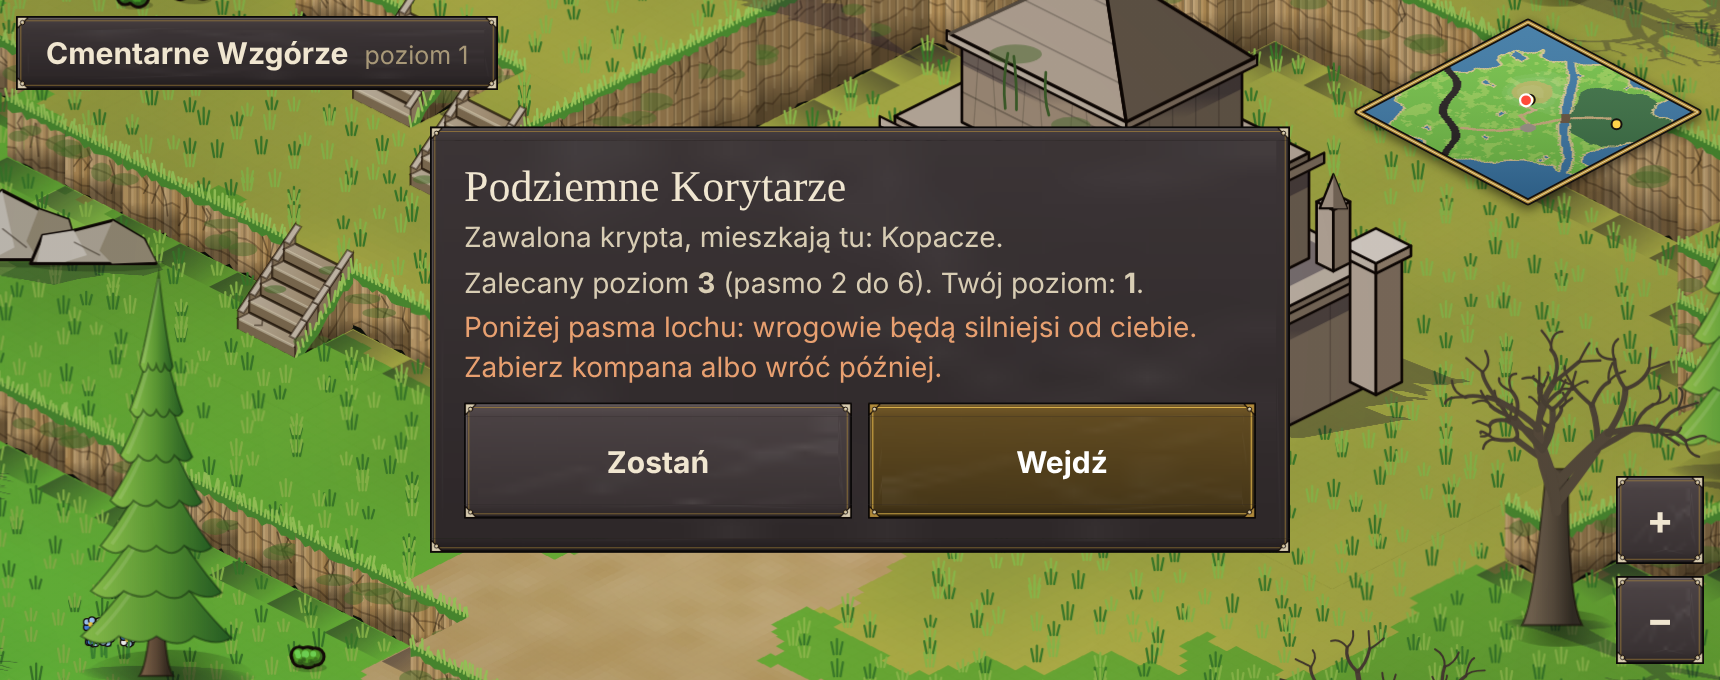
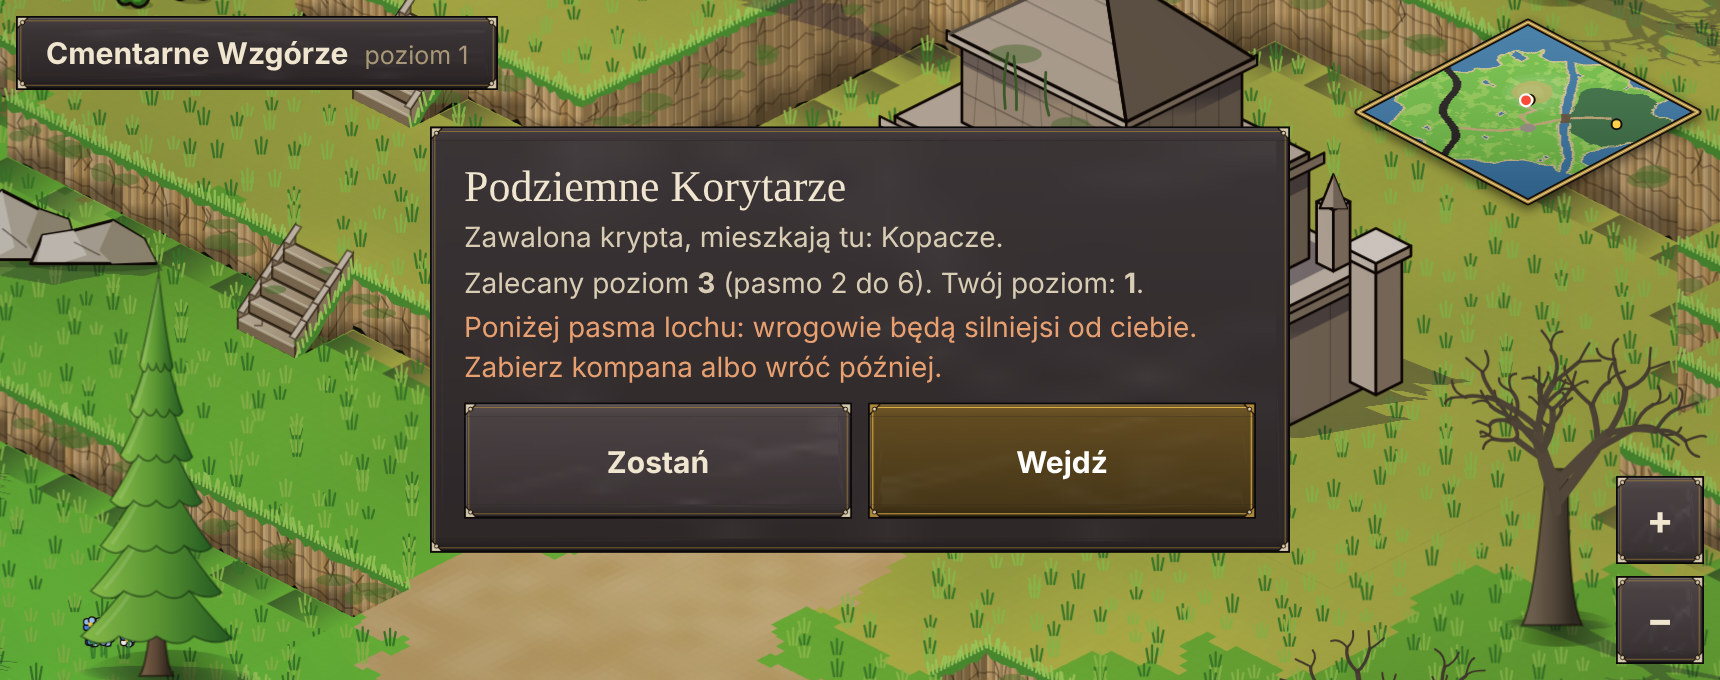
Teren: wygładzone krawędzie tarasów, ścieżka na wzgórze jako półka, nic nie stoi przy schodach
Claude-Session: https://claude.ai/code/session_01YGgK3XekFYaLDhBRBtmmRq

diff --git a/src/world/kraina.js b/src/world/kraina.js
@@ -62,7 +62,11 @@ export function generateWorld(seed = 1) {
     cellRegion[idx(x, y)] = regionOf(px, py);
   }
   // wygładzenie: pojedyncze kafle odstające od sąsiadów wracają do ich poziomu (bez szumu na tarasach)
-  for (let pass = 0; pass < 2; pass++) { const copy = lvl.slice(); for (let y = 1; y < N - 1; y++) for (let x = 1; x < N - 1; x++) { const c = copy[idx(x, y)], ns = [copy[idx(x + 1, y)], copy[idx(x - 1, y)], copy[idx(x, y + 1)], copy[idx(x, y - 1)]]; const same = ns.filter((v) => v === c).length; if (same === 0) { const m = ns.sort((a, b) => a - b); lvl[idx(x, y)] = m[1]; } } }
+  // oraz wąskie wcięcia i wypustki (kafel, którego dwaj przeciwległi sąsiedzi mają ten sam, inny poziom, albo 5 z 8 sąsiadów), żeby krawędzie tarasów były czytelne
+  for (let pass = 0; pass < 4; pass++) { const copy = lvl.slice(); for (let y = 1; y < N - 1; y++) for (let x = 1; x < N - 1; x++) { const c = copy[idx(x, y)], g = (i, j) => copy[idx(x + i, y + j)]; let to = c;
+    if (g(1, 0) === g(-1, 0) && g(1, 0) !== c) to = g(1, 0); else if (g(0, 1) === g(0, -1) && g(0, 1) !== c) to = g(0, 1);
+    else { const cnt = {}; for (let j = -1; j <= 1; j++) for (let i = -1; i <= 1; i++) if (i || j) cnt[g(i, j)] = (cnt[g(i, j)] || 0) + 1; for (const v in cnt) if (+v !== c && cnt[v] >= 5) to = +v; }
+    lvl[idx(x, y)] = to; } }
   // 2. rodzaj gruntu: woda (morze, rzeka), przepaść, bród
   const water = new Uint8Array(N * N);
   for (let y = 0; y < N; y++) for (let x = 0; x < N; x++) {
@@ -89,10 +93,18 @@ export function generateWorld(seed = 1) {
     const c = chain[i], nx = chain[Math.min(chain.length - 1, i + 1)], dx = Math.sign(nx.x - c.x), dy = Math.sign(nx.y - c.y), px2 = -dy, py2 = dx, up = nx.l > c.l && (dx || dy);
     for (const o of [-1, 0, 1]) { const x = c.x + (px2 || 0) * o, y = c.y + (py2 || 0) * o; if (!inb(x, y) || water[idx(x, y)]) continue; lvl[idx(x, y)] = c.l; ramp[idx(x, y)] = up ? (dx === 1 ? 1 : dx === -1 ? 2 : dy === 1 ? 3 : 4) : 0; cellKind[idx(x, y)] = KIND.road; }
   }
+  // teren po bokach ścieżki dostaje jej poziom (pas 2 kafli): ścieżka jest półką wciętą w zbocze, a nie wąskim rowem w płaskowyżu
+  { const best = new Float32Array(N * N).fill(99); for (const c of chain) for (let dy = -2; dy <= 2; dy++) for (let dx = -2; dx <= 2; dx++) { const x = c.x + dx, y = c.y + dy; if (!inb(x, y)) continue; const k = idx(x, y), d = Math.hypot(dx, dy); if (cellKind[k] === KIND.road || water[k] || cellKind[k] === KIND.chasm || d >= best[k]) continue; best[k] = d; lvl[k] = c.l; } }
   // platforma przed kryptą
   for (let y = 0; y < N; y++) for (let x = 0; x < N; x++) if (Math.hypot(x + 0.5 - cx0, y + 0.5 - cy0) < 7.5) { lvl[idx(x, y)] = CRYPT_L; ramp[idx(x, y)] = 0; if (cellKind[idx(x, y)] !== KIND.road) cellKind[idx(x, y)] = KIND.dry; }
   // dodatkowe schody w paru miejscach tarasów wzgórza (kafel o jeden niższy od sąsiada, bez wody i bez ścieżki)
   { const DIR = [[1, 0, 1], [-1, 0, 2], [0, 1, 3], [0, -1, 4]]; for (let y = 1; y < N - 1; y++) for (let x = 1; x < N - 1; x++) { const k = idx(x, y); if (cellRegion[k] !== 2 || ramp[k] || cellKind[k] === KIND.road) continue; for (const [dx, dy, code] of DIR) { const u = idx(x + dx, y + dy); if (lvl[u] === lvl[k] + 1 && !ramp[u] && hash2(seed + 55, x * 5 + code, y) < 0.09) { ramp[k] = code; break; } } } }
+  // końcowe czyszczenie krawędzi po drogach i schodach: wąskie wcięcia i wypustki poza drogami i sąsiedztwem schodów znikają
+  { const fixed = new Uint8Array(N * N); for (let y = 1; y < N - 1; y++) for (let x = 1; x < N - 1; x++) { const k = idx(x, y); if (ramp[k] || cellKind[k] === KIND.road || cellKind[k] === KIND.plaza) for (let j = -2; j <= 2; j++) for (let i = -2; i <= 2; i++) fixed[idx(x + i, y + j)] = 1; }
+    for (let pass = 0; pass < 3; pass++) { const copy = lvl.slice(); for (let y = 1; y < N - 1; y++) for (let x = 1; x < N - 1; x++) { const k = idx(x, y); if (fixed[k] || water[k] || cellKind[k] === KIND.chasm) continue; const c = copy[k], g = (i, j) => copy[idx(x + i, y + j)]; let to = c;
+      if (g(1, 0) === g(-1, 0) && g(1, 0) !== c) to = g(1, 0); else if (g(0, 1) === g(0, -1) && g(0, 1) !== c) to = g(0, 1);
+      else { const cnt = {}; for (let j = -1; j <= 1; j++) for (let i = -1; i <= 1; i++) if (i || j) cnt[g(i, j)] = (cnt[g(i, j)] || 0) + 1; for (const v in cnt) if (+v !== c && cnt[v] >= 5) to = +v; }
+      lvl[k] = to; } } }
   // 4. drogi, plac, piasek, klasyfikacja końcowa
   paint(ROAD_E, 1.7, KIND.road); paint(ROAD_W, 1.7, KIND.road); paint(PATH_UP, 1.6, KIND.road);
   for (let y = 0; y < N; y++) for (let x = 0; x < N; x++) if (Math.hypot(x + 0.5 - vx, y + 0.5 - vy) < 6.5 && !water[idx(x, y)]) cellKind[idx(x, y)] = KIND.plaza;
